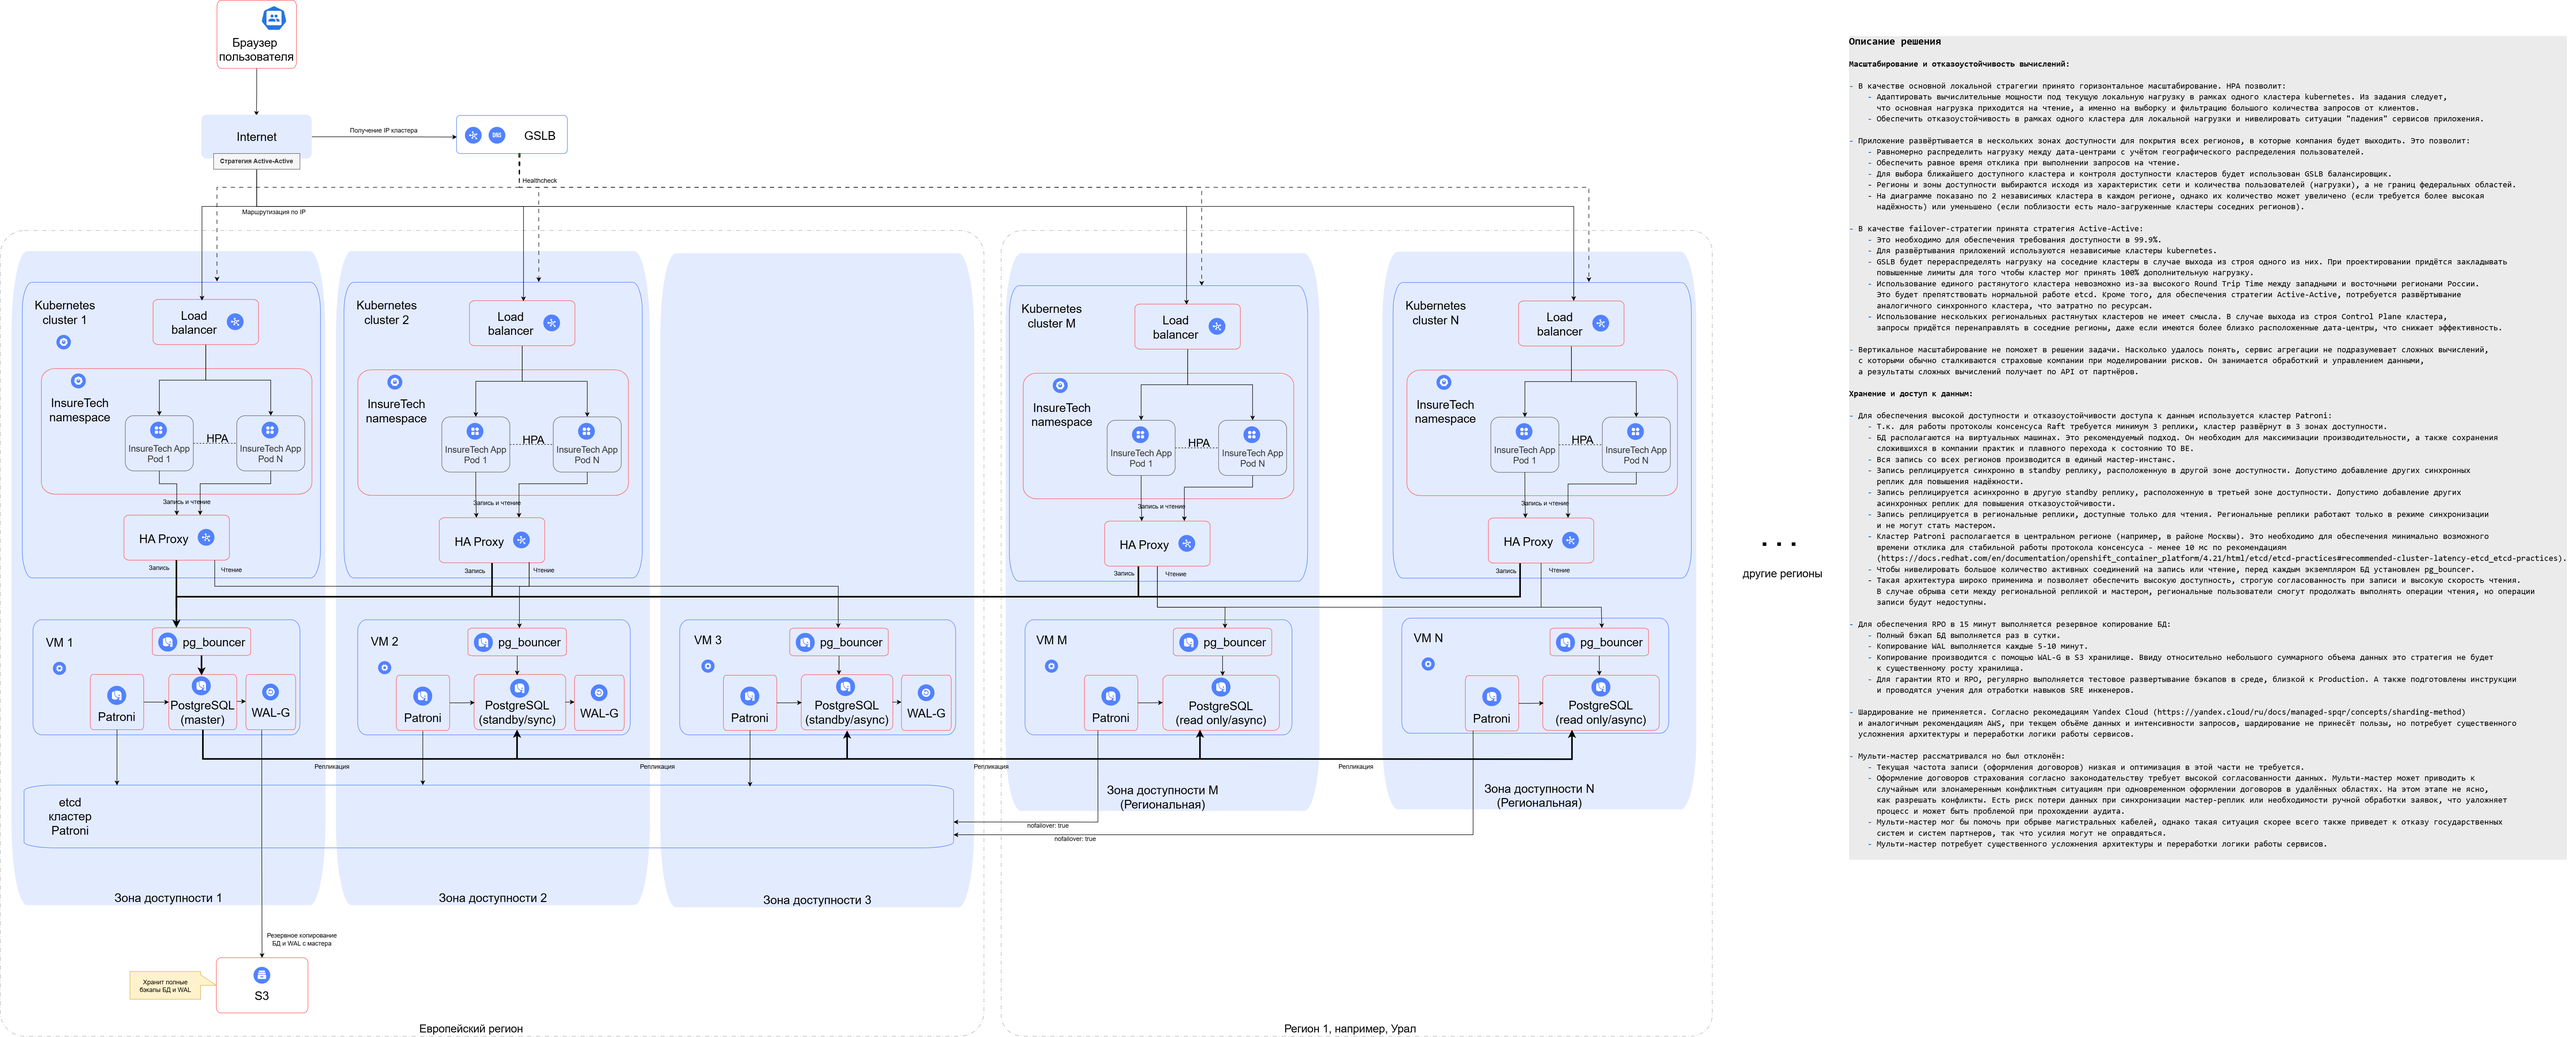
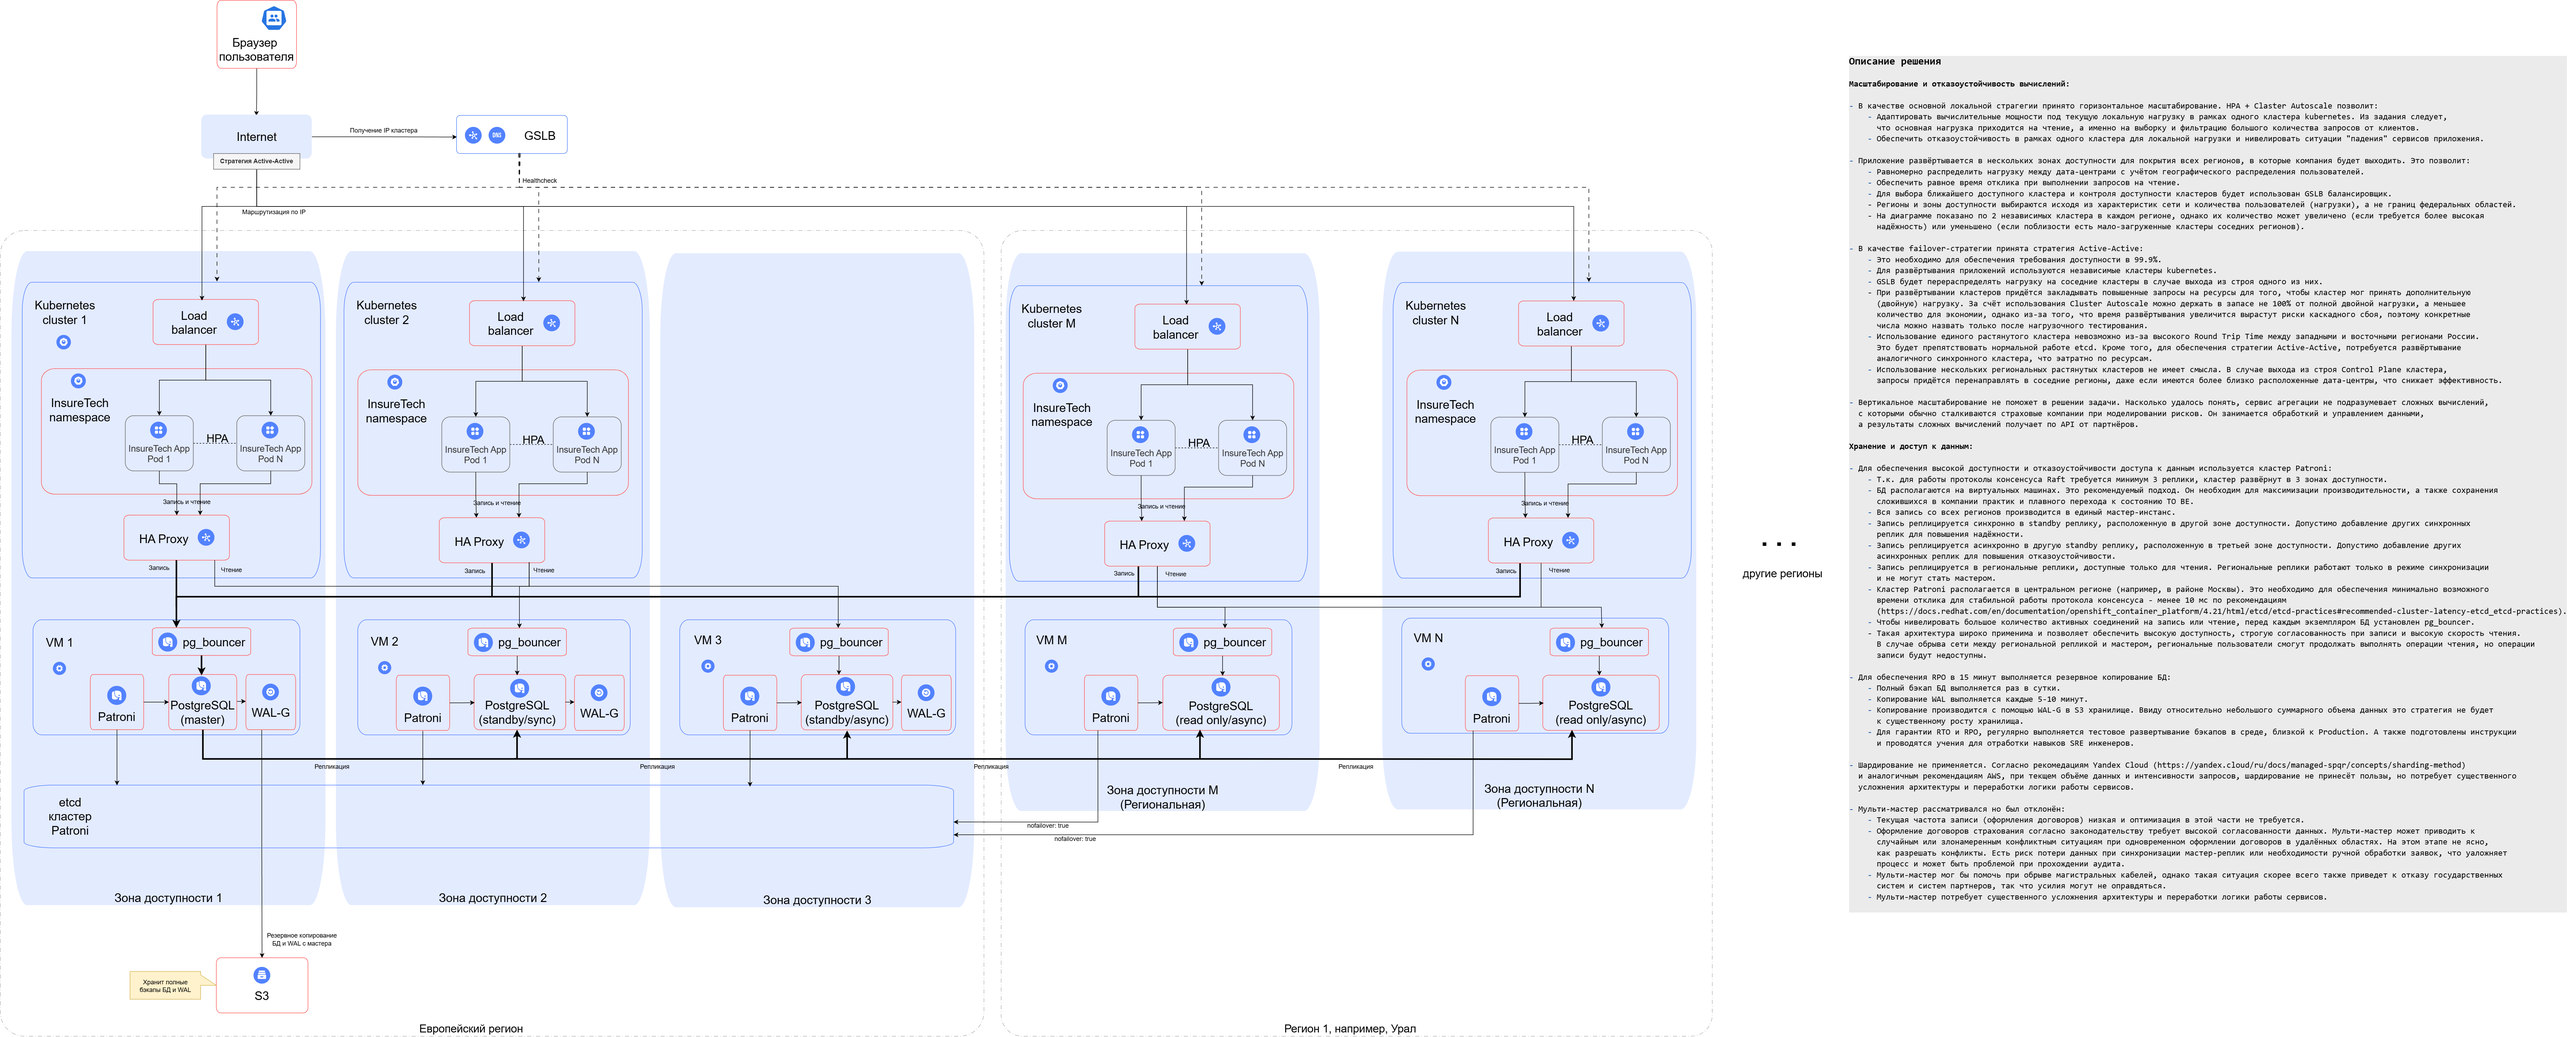
Выполнено задание 3

Changed region(s): [[0.7163, 0.0309, 0.9655, 0.8665]]

diff --git a/Task3/README.md b/Task3/README.md
@@ -1,0 +1,47 @@
+# Проблемы
+
+- `core-app`, `ins-product-aggregator` и `ins-comp-settlement` тесно связаны. Это может затруднить развитие приложения, в т.ч. дальнейшее разбиение на микросервисы.
+- `core-app` синхронно зависит от `ins-product-aggregator`, который, в свою очередь, синхронно зависит от API всех страховых компаний. В случае долгого ответа API, это может привести к каскадным сбоям и отказам клиентам.
+- `ins-product-aggregator` работает батчингом и в случае проблем со связью или в API хотя бы одной страховой компании:
+    - Сервисы, запрашивающие данные, будут вынуждены ждать пока не будут завершены все запросы.
+    - Если произойдет сбой, не будут собраны данные и других компаний.
+- Если `core-app` или `ins-comp-settlement` потребуется масштабировать:
+    - Зто приведёт к возникновению дублирующих запросов на получение данных из `ins-product-aggregator`.
+    - Сервис `ins-product-aggregator` также потребуется кратно масштабировать, т.к. он может не справиться с нагрузкой.
+- Сервис `ins-comp-settlement` зависит от состояния `core-app`. Если `core-app` будет не доступен в момент вызова, это может нарушить работу `ins-comp-settlement` и финансовые расчеты.
+- Ситуация усугубится при подключении новых страховых компаний.
+
+# Решение
+
+**Перевести взаимодействие данных сервисов на асинхронную модель:**
+
+- Сервисы `core-app` и `ins-comp-settlement` больше не будут инициаторами запросов. Они станут подписчиками нужных топиков `Kafka`.
+- Сервис `ins-product-aggregator` будет по расписанию запрашивать новые значения через API и отправлять их в `Kafka`.
+- Сервис `ins-product-aggregator` будет отправлять данные каждой страховой компании в `Kafka` независимо друг от друга.
+- Сервис `ins-comp-settlement` перестанет обращаться напрямую к `core-app`. Вместо этого `core-app` будет публиковать события о создании заказа в `Kafka`. Данные события будут использоваться `ins-comp-settlement` для взаиморасчетов.
+
+**В качестве брокера выбрана `Kafka`, потому что:**
+
+- В приложении отсутствуют сложные взаимодействия и интеграции по стандартным протоколам и "умный" брокер не нужен.
+- Есть необходимость обработки одних и тех же событий несколькими подписчиками.
+- Долговременное хранение событий может быть полезно при поиске и исправлении проблем и сбоев в сервисах.
+
+**Асинхронное взаимодействие сервисов позволит:**
+
+- Сделать работу сервисов независимыми от текущего состояния друг друга. Это упростит развитие приложения.
+- `ins-product-aggregator` сможет выполнять запросы к сервисам контрагентов по одному и формировать события по ним отдельно. Сервисы, зависящие от этих событий, будут отрабатывать их по мере необходимости. Если эти данные потребуются другим (новым) сервисам команде не придется менять код сервисов.
+- Устраняется зависимость сервисов от возможных задержек и сбоев при получении данных из API страховых компаний, т.к. они больше не будут напрямую зависеть от них.
+- Устраняется проблема дублирования запросов при масштабировании.
+
+**Возможные проблемы:**
+
+- Если API страховой компании станет недоступным на долгое время, сервисы `core-app` и `ins-comp-settlement` не узнают о том, что цены могли стать неактуальными. Для устранения данной ситуации необходимо ввести TTL. Если цены определённой страховой компании долго не подтверждались, информировать клиентов о том что цены могут быть неактуальны или временно приостанавливать показ продуктов с устаревшими ценами такой страховой компании.
+
+**Применяемые паттерны:**
+
+- Для устранения проблемы двойной записи в сервисе `core-app`, при сохранении данных о заказе в собственную БД и публикации их в `Kafka` для `ins-comp-settlement` необходимо использовать либо паттерн Transactional outbox, либо Transaction log tailing:
+    - В первом случае, команде нужно будет разработать отдельный микросервис вычитки данных из БД `core-db` и публикации их в `Kafka`.
+    - Во-втором, настроить Debezium на работу с `core-db`. Также потребуется настроить Patroni (который был выбран в задании 1) на синхронизацию слотов.
+    - Конкретное решение должна принимать команда разработки исходя из своих знаний и навыков. В качестве примера, на диаграмме показан CDC.
+    - В обеих ситуациях рекомендуется использовать отдельную таблицу, для поддержания стабильности внутреннего API.
+- Для устранения проблем с долгим ожиданием ответа от API страховой компании может быть использован `Retry` и `Circuit Breaker`. Однако их использование не обязательно, т.к. запросы будут выполняться редко и регулярно по расписанию.
